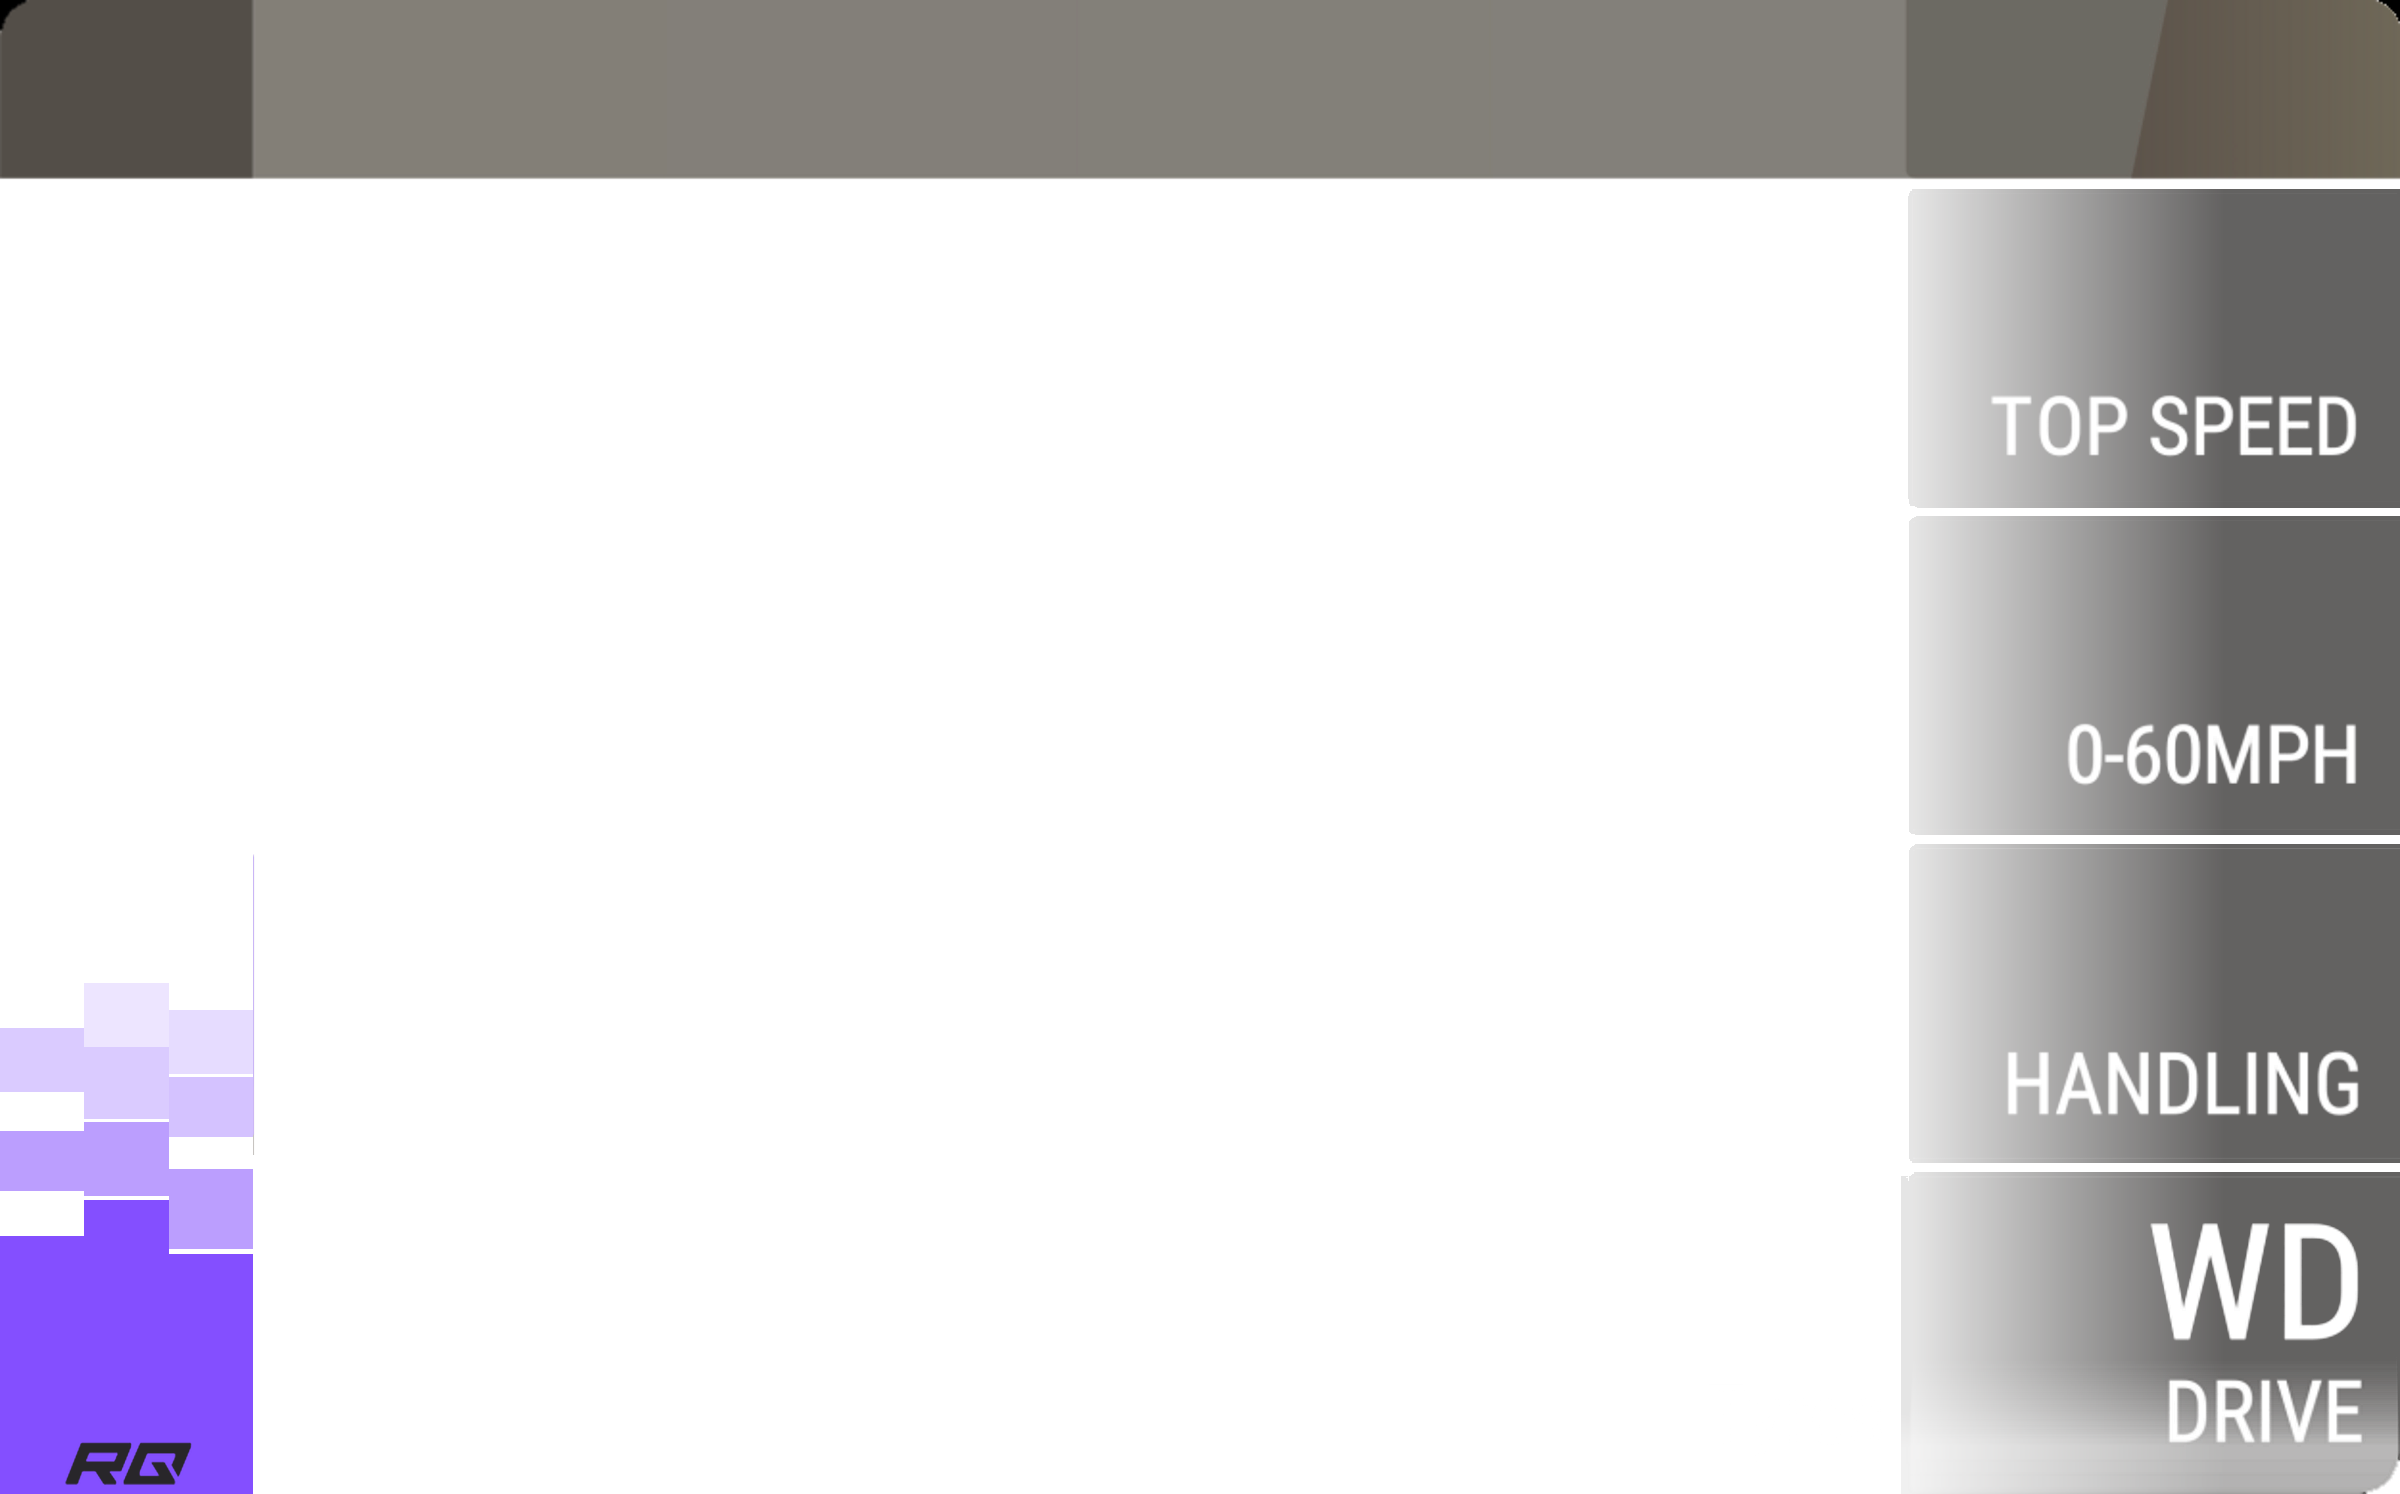
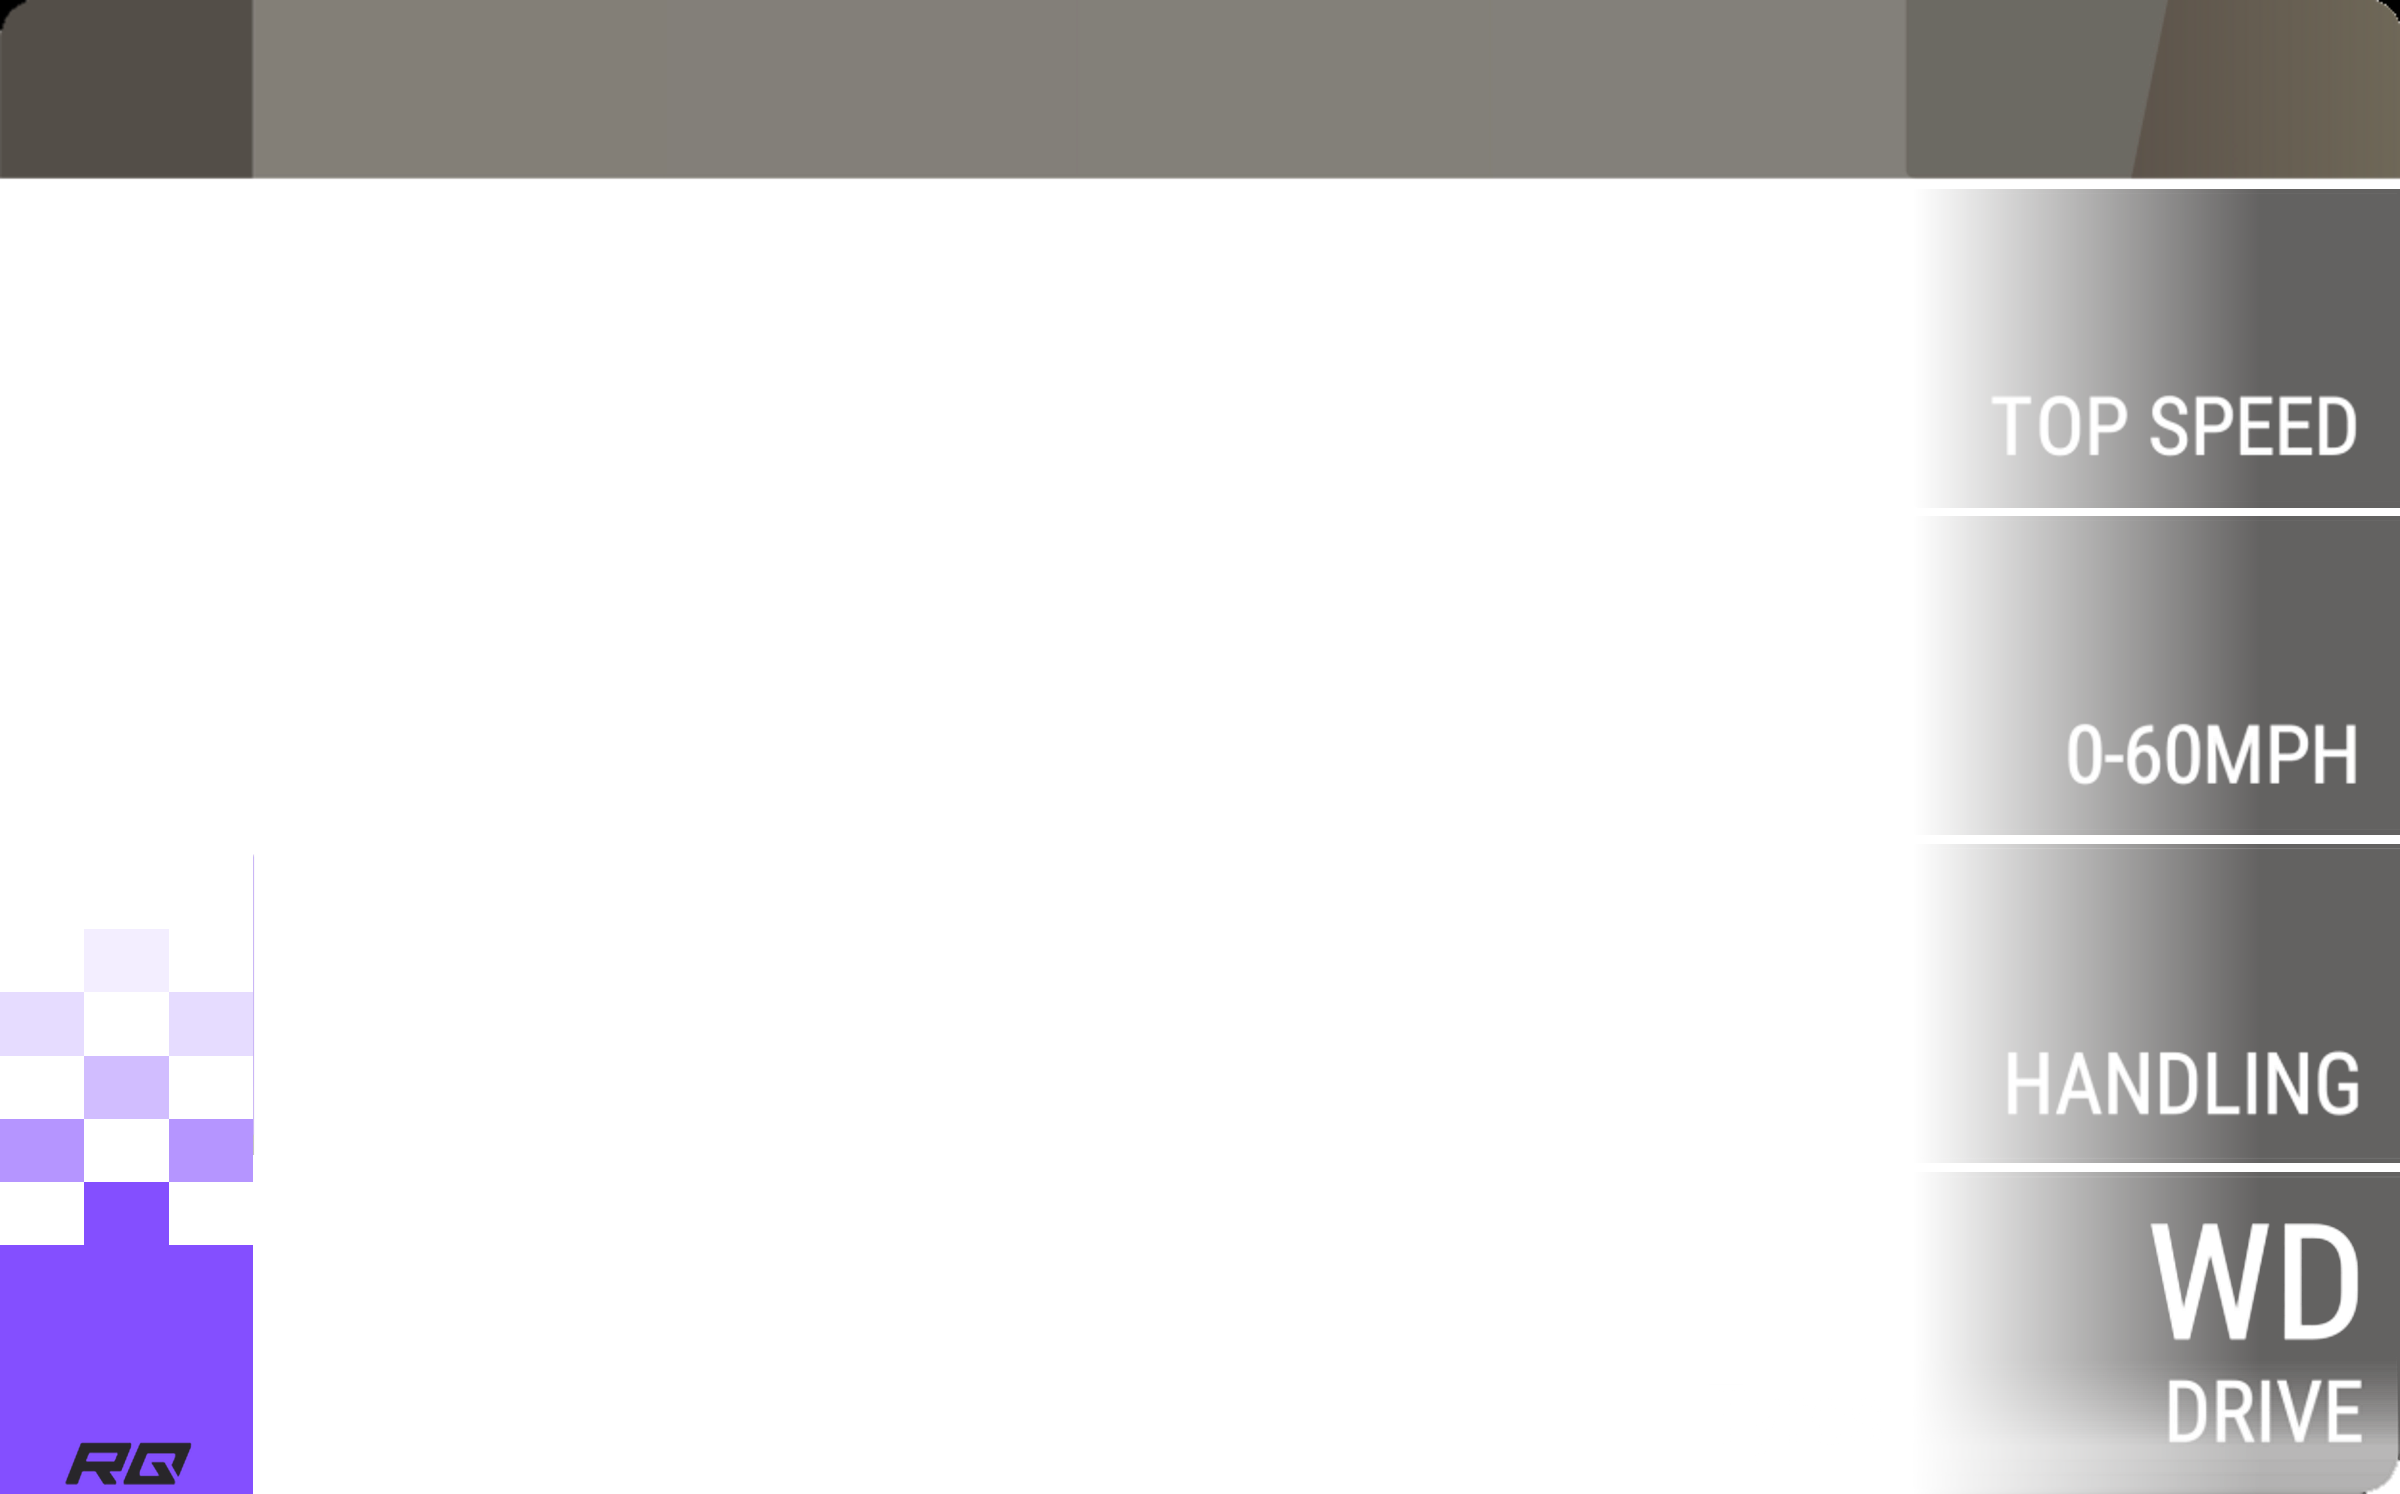
fix

Changed region(s): [[0.7812, 0.1232, 0.8438, 0.9545], [0.0, 0.6466, 0.125, 0.8621]]

diff --git a/lib/templates/template_spec.dart b/lib/templates/template_spec.dart
@@ -1,6 +1,6 @@
 import 'package:flutter/painting.dart';
 
-import '../../assets/data/models/card_style.dart';
+import '../data/models/card_style.dart';
 
 Color _hexColor(String hex) =>
     Color(int.parse(hex.replaceFirst('#', ''), radix: 16) | 0xFF000000);
@@ -259,12 +259,43 @@ class PrizeStyleSpec {
 
 /// A rectangle in card units.
 class RegionRect {
-  const RegionRect({required this.x, required this.y, required this.w, required this.h});
+  const RegionRect({
+    required this.x,
+    required this.y,
+    required this.w,
+    required this.h,
+    this.fadeLeft = 0,
+  });
 
   final double x, y, w, h;
 
-  factory RegionRect.fromJson(Map<String, dynamic> j) =>
-      RegionRect(x: _d(j['x']), y: _d(j['y']), w: _d(j['w']), h: _d(j['h']));
+  /// For a blurred region: the blur grows from nothing to full strength over
+  /// this width at the left edge, like the panels that fade in from clear glass.
+  final double fadeLeft;
+
+  factory RegionRect.fromJson(Map<String, dynamic> j) => RegionRect(
+        x: _d(j['x']),
+        y: _d(j['y']),
+        w: _d(j['w']),
+        h: _d(j['h']),
+        fadeLeft: _d(j['fadeLeft'] ?? 0),
+      );
+
+  /// The region as strips with their blur strength: one piece without a fade,
+  /// otherwise narrow strips that blur a little more each, then the full part.
+  List<({Rect rect, double sigma})> blurPieces(double sigma, {int steps = 12}) {
+    final fade = fadeLeft.clamp(0.0, w).toDouble();
+    if (fade <= 0) return [(rect: Rect.fromLTWH(x, y, w, h), sigma: sigma)];
+    final strip = fade / steps;
+    return [
+      for (var i = 0; i < steps; i++)
+        (
+          rect: Rect.fromLTWH(x + strip * i, y, strip + 0.5, h),
+          sigma: sigma * (i + 1) / (steps + 1),
+        ),
+      if (w > fade) (rect: Rect.fromLTWH(x + fade, y, w - fade, h), sigma: sigma),
+    ];
+  }
 }
 
 /// The logo slot of the frame (the dark tile in the top-left corner).

diff --git a/lib/editor/canvas/card_view.dart b/lib/editor/canvas/card_view.dart
@@ -78,22 +78,23 @@ class CardView extends StatelessWidget {
             // Frosted glass: blur the photo behind the semi-transparent parts of the frame.
             if (photoFile != null && t.blurSigma > 0)
               for (final r in t.blurRegions)
-                Positioned(
-                  left: r.x,
-                  top: r.y,
-                  width: r.w,
-                  height: r.h,
-                  child: ClipRect(
-                    child: BackdropFilter(
-                      filter: ui.ImageFilter.blur(
-                        sigmaX: t.blurSigma,
-                        sigmaY: t.blurSigma,
-                        tileMode: TileMode.clamp,
+                for (final piece in r.blurPieces(t.blurSigma))
+                  Positioned(
+                    left: piece.rect.left,
+                    top: piece.rect.top,
+                    width: piece.rect.width,
+                    height: piece.rect.height,
+                    child: ClipRect(
+                      child: BackdropFilter(
+                        filter: ui.ImageFilter.blur(
+                          sigmaX: piece.sigma,
+                          sigmaY: piece.sigma,
+                          tileMode: TileMode.clamp,
+                        ),
+                        child: const SizedBox.expand(),
                       ),
-                      child: const SizedBox.expand(),
                     ),
                   ),
-                ),
             Positioned.fill(
               child: Image.asset(
                 frame,

diff --git a/lib/data/models/card_project.dart b/lib/data/models/card_project.dart
@@ -104,12 +104,9 @@ class CardProject {
 
   /// Fan-made or official (game) look of the title.
   CardStyle cardStyle;
-<<<<<<< HEAD
 
   /// The flag of [country] behind the country code (if the code has a flag).
   bool showFlag;
-=======
->>>>>>> bde53f785ffd4ae968faf6bb21b3de14bd0a3799
   String brand;
   String model;
   String year;
@@ -165,10 +162,7 @@ class CardProject {
         'brandScale': brandScale,
         'modelScale': modelScale,
         'cardStyle': cardStyle.name,
-<<<<<<< HEAD
         'showFlag': showFlag,
-=======
->>>>>>> bde53f785ffd4ae968faf6bb21b3de14bd0a3799
         'yearScale': yearScale,
         'tagScale': tagScale,
         'brand': brand,
@@ -225,10 +219,7 @@ class CardProject {
       brandScale: (j['brandScale'] as num?)?.toDouble() ?? legacyTitleScale,
       modelScale: (j['modelScale'] as num?)?.toDouble() ?? legacyTitleScale,
       cardStyle: parseCardStyle(j['cardStyle'] as String?),
-<<<<<<< HEAD
       showFlag: j['showFlag'] as bool? ?? false,
-=======
->>>>>>> bde53f785ffd4ae968faf6bb21b3de14bd0a3799
       yearScale: (j['yearScale'] as num?)?.toDouble() ?? 1.0,
       tagScale: (j['tagScale'] as num?)?.toDouble() ?? 1.0,
       brand: s('brand', ''),

diff --git a/tool/make_modern_frames.py b/tool/make_modern_frames.py
@@ -4,8 +4,9 @@ Run from the project root:  python3 tool/make_modern_frames.py
 
 The modern look (seen on newer cards of the game): no stars, the tuning wrench
 sits lower and is bigger, the bottom shading strip is gone (more room for the
-photo), the stat panels fade in from the left, and the class block is a plain
-colour block with a pixelated fade above it and no class letter.
+photo), the stat panels fade in from fully transparent on the left, and the
+class block is a plain colour block with a see-through chequered flag above it
+(squares in the class colour, fading upwards) and no class letter.
 Everything that is not listed here (title bar, logo block, country block, the
 words under the numbers) is taken from the standard frame unchanged.
 """
@@ -19,6 +20,11 @@ SRC = {'S': 'legendary', 'A': 'epic', 'B': 'ultra_rare', 'C': 'super_rare',
        'D': 'rare', 'E': 'uncommon', 'F': 'common'}
 OUT = 'assets/frames/modern'
 PANEL_RGB = np.array([38.0, 36.0, 35.0])
+PANEL_MAX = 0.72      # how dark the stat panels get on the right
+RAMP_END = 1260       # x (card units) where they are darkest; the template's blur fades over the same width
+CHECK_TOP = 690       # the solid colour block starts here, the chequered flag sits above it
+CHECK_CELL = 35       # size of a square of the chequered flag
+CHECK_ALPHA = [1.0, 0.60, 0.38, 0.20, 0.10]   # row by row, upwards
 
 
 def px(x, y):
@@ -93,8 +99,8 @@ def build(letter, name):
     spans.append((start, prev + 1))
     x0p, x1p = px(1060, 0)[0], px(1338, 0)[0]
     xs = np.arange(x0p, x1p)
-    t = np.clip((xs - px(1066, 0)[0]) / (px(1240, 0)[0] - px(1066, 0)[0]), 0, 1)
-    panel_alpha = 0.12 + 0.60 * t                      # 12% at the left edge, 72% from x=1240
+    t = np.clip((xs - px(1066, 0)[0]) / (px(RAMP_END, 0)[0] - px(1066, 0)[0]), 0, 1)
+    panel_alpha = PANEL_MAX * t                        # fully clear at the left edge, PANEL_MAX from RAMP_END on
     for ya, yb in spans:
         block = a[ya:yb, x0p:x1p]
         inside = block[..., 3] > 0
@@ -106,7 +112,7 @@ def build(letter, name):
         out[ya:yb, x0p:x1p, :3] = np.where(inside[..., None], rgb, 0)
         out[ya:yb, x0p:x1p, 3] = oa * 255
 
-    # --- new class block: solid colour with a pixelated fade above it ---
+    # --- new class block: solid colour, and above it a see-through chequered flag ---
     def rect(x0, y0, x1, y1, alpha):
         ys, xs_ = region(x0, y0, x1, y1)
         blk = out[ys, xs_]
@@ -114,13 +120,13 @@ def build(letter, name):
         oa = alpha + da * (1 - alpha)
         blk[..., :3] = (cls * alpha + blk[..., :3] * da * (1 - alpha)) / np.maximum(oa, 1e-6)
         blk[..., 3:4] = oa * 255
-    cols = [(0, 47, 685, [(570, 605, .30), (627, 660, .55)]),
-            (47, 94, 665, [(545, 580, .15), (580, 620, .30), (622, 663, .55)]),
-            (94, 141, 695, [(560, 595, .20), (597, 630, .35), (648, 692, .55)])]
-    for x0, x1, solid_top, tiles in cols:
-        for ty0, ty1, al in tiles:
-            rect(x0, ty0, x1, ty1, al)
-        rect(x0, solid_top, x1, 828, 1.0)
+    width = 141 / 3                                   # three columns of squares
+    for row, alpha in enumerate(CHECK_ALPHA, start=1):
+        top = CHECK_TOP - CHECK_CELL * row
+        for col in range(3):
+            if (col + row) % 2 == 0:                  # every other square, like a chequered flag
+                rect(col * width, top, (col + 1) * width, top + CHECK_CELL, alpha)
+    rect(0, CHECK_TOP, 141, 828, 1.0)
 
     # --- sprites back: dark RQ logo on the block, words under the photo, wrench ---
     put(out, logo_cov_arr, logo_pos, (40, 38, 42), scale=0.78, anchor=px(36, 799))

diff --git a/README.md b/README.md
@@ -165,8 +165,10 @@ assets/
   PNG-рамок по классам. Список лежит в `TemplateRegistry`. Сейчас два: **Standard** и **Modern**.
   Переключатель шаблона находится в разделе **Style**, шаблон хранится в карточке (`templateId`).
 - **Modern** это вид новых карточек игры: нет звёздочек, ключ тюнинга ниже и крупнее, нет тёмной полосы
-  внизу (больше места для фото), панели характеристик с градиентом (слева почти прозрачные), блок RQ без
-  буквы класса: плоский цвет класса с пиксельным затуханием сверху, число RQ тёмное.
+  внизу (больше места для фото), панели характеристик, которые нарастают от полностью прозрачных слева до тёмных справа
+  (размытие фона под ними тоже нарастает плавно: ключ `fadeLeft` у областей `blurRegions`), блок RQ без
+  буквы класса: плоский цвет класса, над ним прозрачный «клетчатый флаг» из квадратов цвета класса,
+  затухающий вверх, число RQ тёмное.
   Рамки собираются из стандартных скриптом `python3 tool/make_modern_frames.py` (название, блок логотипа,
   блок страны и подписи под цифрами берутся из стандартной рамки без изменений). Числа (положение плиток,
   градиент, положение ключа и логотипа RQ) измерены по скриншоту карточки Porsche 911 GT2 и лежат в

diff --git a/claude/claude.md b/claude/claude.md
@@ -136,7 +136,10 @@ claude/claude.md                 this file
 - Templates: `assets/templates/<id>.json` + frames; list in `TemplateRegistry._ids`; `EditorController.template` is a getter
   (follows `project.templateId`). New frame folders must be declared in pubspec (assets are not recursive).
 - `modern` frames are generated: `python3 tool/make_modern_frames.py` (from the standard frames, in 2400x1494 pixels).
-  Measured from a Porsche 911 GT2 card: no stars/bottom strip, wrench 1.5x at (185,750), gradient stat panels,
-  pixel-fade colour block (no class letter), dark RQ number (`fields.rq.color`, y 699). Only class A was seen.
+  Measured from a Porsche 911 GT2 card: no stars/bottom strip, wrench 1.5x at (185,750), stat panels fading in from fully clear
+  (alpha 0 -> 0.72 over x 1066..1260; the template's blur fades over the same width via `blurRegions[].fadeLeft`),
+  colour block topped by a see-through chequered flag (35-unit squares, 3 columns, alpha fading upwards; class colour),
+  dark RQ number (`fields.rq.color`, y 699). Only class A was seen. `drivePrefix` has an explicit baseline (738, measured on a phone: 742 put the letter 3 px low) so the
+  F/R/4 stands on the baseline of the baked "WD".
 - Flag: `CardProject.showFlag`, `CountryFlags` (painted, simplified), `FlagBadge` between frame and texts, polygon and
   opacity in template `flag`. Works in every template.
